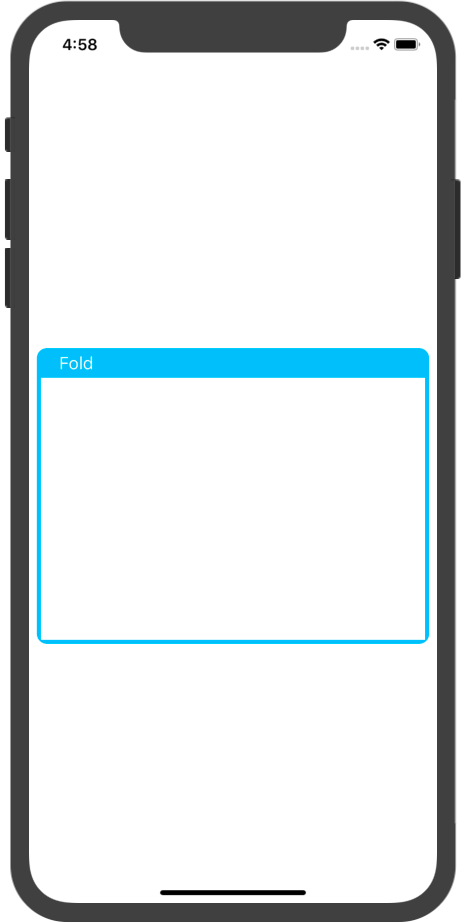
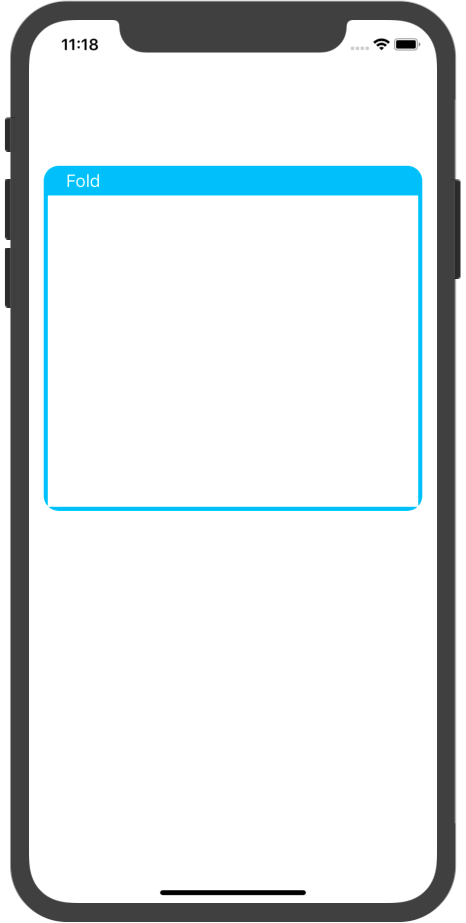
improve README

Changed region(s): [[0.0601, 0.1517, 0.9313, 0.6977], [0.1202, 0.0303, 0.2103, 0.0607]]

diff --git a/ExpanderExample/ViewController.swift b/ExpanderExample/ViewController.swift
@@ -57,15 +57,15 @@ class ViewController: UIViewController {
         view.addSubview(centerLine)
 
         let view1 = EView.serialization(in: view)
-        var view1Config = EViewConfig()
-        view1Config.located = .right
-        view1Config.expandSize = CGSize.init(width: view.bounds.width - 16, height: 600)
-        view1.applyConfig(view1Config)
+//        var view1Config = EViewConfig()
+//        view1Config.located = .right
+//        view1Config.expandSize = CGSize.init(width: view.bounds.width - 16, height: 200)
+//        view1.applyConfig(view1Config)
 
         let view2 = EView.serialization(in: view)
         let view3 = EView.serialization(in: view)
         let view4 = EView.serialization(in: view)
-        eGroup = EViewGroup.init(layout: .end, mode: .clever, with: view1, view2, view3, view4)
+        eGroup = EViewGroup.init(layout: .center, mode: .one, with: view1, view2, view3, view4)
         eGroup.interItemSpacing = 8
         eGroup.formed()
     }

diff --git a/Expander/EViewConfig.swift b/Expander/EViewConfig.swift
@@ -75,7 +75,7 @@ public struct EViewConfig {
     {
         self.size = size
         self.padding = padding
-        self.located = .left
+        self.located = located
         self.expandType = expandType
         self.expandCornerRadius = expandCornerRadius
     }

diff --git a/simple-eview-datas-demo.md b/simple-eview-datas-demo.md
@@ -1,0 +1,74 @@
+## EView with datas
+
+**Code**
+
+**First [Init EView and configure it](https://github.com/yutingLei/Expander/blob/master/simple-eview-demo.md)**
+
+**Second:** suppose array data as follow
+
+```swift
+let datas = [["title": "Gemany", "image": "GM.png"],
+            ["title": "India", "image": "IN.png"],
+            ["title": "Japan", "image": "JP.png"],
+            ["title": "Netherlands", "image": "NL.png"],
+            ["title": "UK", "image": "UK.png"],
+            ["title": "US", "image": "US.png"],
+            ["title": "Canada", "image": "CA.png"],
+            ["title": "Singapore", "image": "SP.png"]]
+```
+
+**Third:** configure cell
+
+```swift
+let cellConfig = EViewCellConfig(keys: ["title", "image"])
+```
+
+**Forth:** show datas
+
+```swift
+eView.showDatas(datas, with: cellConfig) {idx in
+	print("Current selected index = \(idx)")
+}
+```
+
+
+**Effects**
+
+<div display="block">
+<img src="./ExpanderExample/Effects/datas-expanded.png"/ width="375">
+</div>
+
+```swift
+cellConfig.isMultiSelect = true
+```
+
+<div display="block">
+<img src="./ExpanderExample/Effects/multiselect-datas-expanded.png"/ width="375">
+</div>
+
+```swift
+cellConfig.isMultiSelect = false
+cellConfig.selectedBackgroundColor = .orange
+```
+<div display="block">
+<img src="./ExpanderExample/Effects/multiselect-datas-expanded1.png"/ width="375">
+</div>
+
+```swift
+/// Combine with EView's configurations
+var config = EViewConfig()
+config.expandSize = CGSize(width: view.bounds.width - 16, height: 300)
+eView.applyConfig(config)
+
+/// Custom cell's layout
+cellConfig.isMultiSelect = true
+let layout = UICollectionViewFlowLayout()
+layout.itemSize = CGSize(width: (view.bounds.width - 16 - 20) / 4, height: (view.bounds.width - 16 - 20) / 4)
+layout.minimumLineSpacing = 4
+layout.minimumInteritemSpacing = 4
+cellConfig.layout = layout
+```
+
+<div display="block">
+<img src="./ExpanderExample/Effects/multiselect-datas-expanded2.png"/ width="375">
+</div>

diff --git a/group-eview-demo.md b/group-eview-demo.md
@@ -1,0 +1,60 @@
+## EViewGroup
+
+**Code**
+
+```swift
+/// Init EViews
+let view1 = EView.serialization(in: view)
+let view2 = EView.serialization(in: view)
+let view3 = EView.serialization(in: view)
+let view4 = EView.serialization(in: view)
+
+/// Init `global` EViewGroup
+eGroup = EViewGroup.init(layout: .start, mode: .clever, with: view1, view2, view3, view4)
+eGroup.interItemSpacing = 8
+eGroup.formed()
+
+/// Or
+eGroup = EViewGroup.init(layout: .start, with: view1, view2, view3, view4)
+eGroup.mode = .clever
+eGroup.interItemSpacing = 8
+eGroup.formed()
+
+/// Or
+eGroup = EViewGroup.init(mode: .clever, with: view1, view2, view3, view4)
+eGroup.layout = .center
+eGroup.interItemSpacing = 8
+eGroup.formed()
+
+/// Or 
+eGroup = EViewGroup.init(with: view1, view2, view3, view4)
+eGroup.layout = .center
+eGroup.mode = .clever
+eGroup.interItemSpacing = 8
+eGroup.formed()
+```
+
+**Effect**
+
+`layout = ` `.start` / `.center` / `.end` / `.spaceBetween` / `.spaceAround`
+
+<div display="block">
+<img src="./ExpanderExample/Effects/group-start.png" width="375"/>
+<img src="./ExpanderExample/Effects/group-center.png"/ width="375">
+<img src="./ExpanderExample/Effects/group-end.png"/ width="375">
+<img src="./ExpanderExample/Effects/group-spacebetween.png"/ width="375">
+<img src="./ExpanderExample/Effects/group-spacearound.png"/ width="375">
+</div>
+
+Configure `view1` as follow:
+
+```swift
+var view1Config = EViewConfig()
+view1Config.located = .right
+view1Config.expandSize = CGSize.init(width: view.bounds.width - 16, height: 600)
+view1.applyConfig(view1Config)
+```
+
+And set `eGroup.mode = ` `.one` or `.more` or `.clever`
+
+Try it and see what's different

diff --git a/simple-eview-demo.md b/simple-eview-demo.md
@@ -1,0 +1,48 @@
+## Simple EView
+
+**Code**
+
+```swift
+let eView = EView.serialization(in: view)
+view.addSubview(eView)
+```
+
+**Effects**
+
+<div display="block">
+<img src="./ExpanderExample/Effects/only-original.png" width="375"/>
+<img src="./ExpanderExample/Effects/only-expanded.png"/ width="375">
+</div>
+
+## Configurations for EView
+
+**Code**
+
+```swift
+/// First method for init
+var config = EViewConfig(size: CGSize.init(width: 100, height: 100),
+                         expandCornerRadius: 15,
+                         padding: EViewPadding.init(0, 15),
+                         expandType: .up,
+                         located: .right)
+config.expandSize = CGSize.init(width: -1, height: 350)
+                         
+/// Second method for init
+// var cofig = EViewConfig()
+// config.size = CGSize.init(width: 100, height: 100)
+// config.expandCornerRadius = 15
+// config.padding = EViewPadding.init(0, 15)
+// config.expandType = .up
+// config.located = .right
+// config.expandSize = CGSize.init(width: -1, height: 350)
+
+/// Apply configuration
+eView.applyConfig(config)
+```
+
+**Effects**
+
+<div display="block">
+<img src="./ExpanderExample/Effects/config-original.png" width="375"/>
+<img src="./ExpanderExample/Effects/config-expanded.png" width="375"/>
+</div>

diff --git a/README.md b/README.md
@@ -182,8 +182,13 @@ Is there any property that can be introduced?
 | interItemSpacing | CGFloat | Spacing between each view. only supports layouts of `.start`, `.end`, and `.center` |
 
 
-## [Demo](https://github.com/yutingLei/Expander/blob/master/DEMO.md)
+## Demo
 
+**[Simple EView and Configurations](https://github.com/yutingLei/Expander/blob/master/simple-eview-demo.md)**
+
+**[EView with datas](https://github.com/yutingLei/Expander/blob/master/simple-eview-datas-demo.md)**
+
+**[EViewGroup](https://github.com/yutingLei/Expander/blob/master/group-eview-demo.md)**
 
 
 ## TODO
